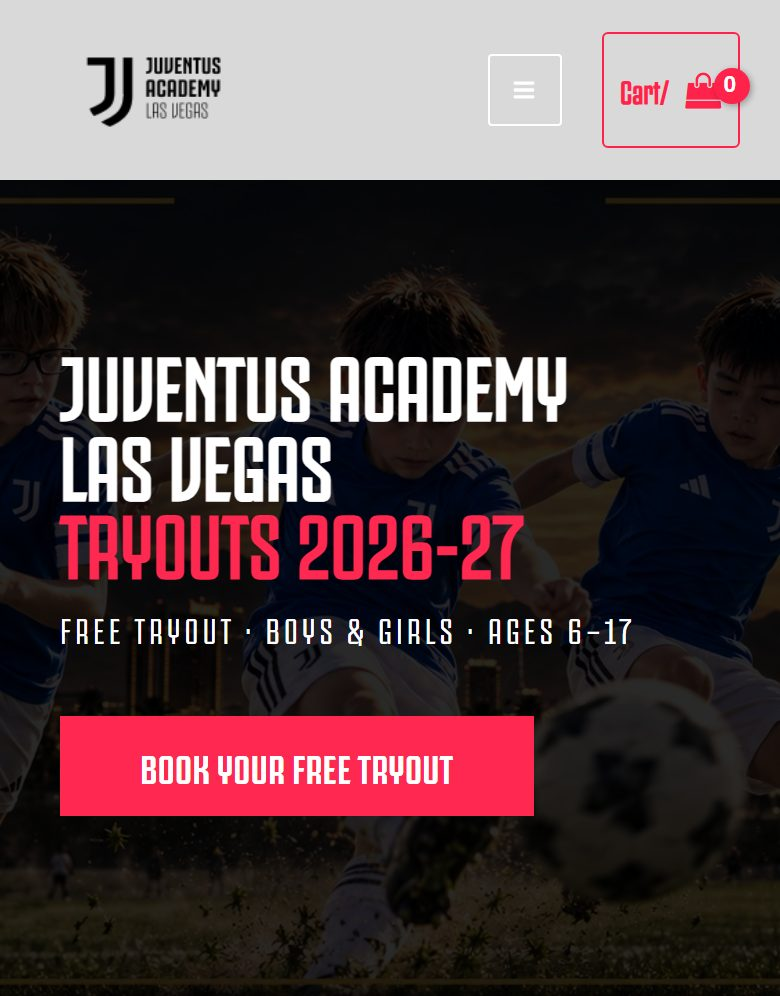
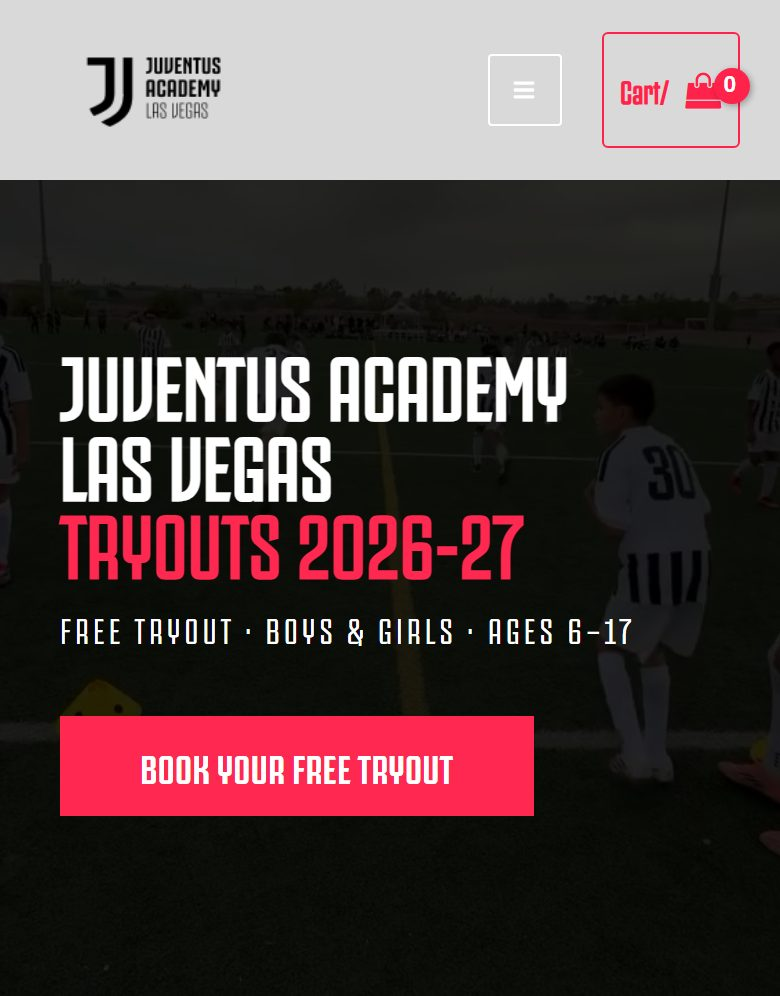
Portada: video real en cámara lenta como propuesta elegida

diff --git a/index.html b/index.html
@@ -71,7 +71,7 @@ td .tag{display:inline-block;margin-top:6px;font-size:12px;font-weight:600;paddi
 .foto{background:var(--panel);border:1px solid var(--line);border-radius:14px;padding:18px;display:grid;gap:14px}
 .foto .par{display:grid;grid-template-columns:1fr 1fr;gap:14px}
 .foto .par > div{min-width:0}
-.foto .par img{width:100%;aspect-ratio:16/10;object-fit:cover;border-radius:8px;display:block}
+.foto .par img,.foto .par video{width:100%;aspect-ratio:16/10;object-fit:cover;border-radius:8px;display:block;background:#000}
 .foto .lbl{font:700 13px/1 "Barlow Condensed",sans-serif;letter-spacing:2px;text-transform:uppercase;color:var(--muted);margin-bottom:6px}
 .foto .lbl.d{color:var(--accent)}
 .foto ul{margin:0;padding-left:18px;color:var(--ink2)}
@@ -104,7 +104,7 @@ footer{margin-top:56px;color:var(--muted);font-size:14px;border-top:1px solid va
   <div class="aviso">
     <span class="chip">Simulación · la web no se ha modificado</span>
     <span class="chip ok">Ya hecho el 10-10: los 4 botones van al tryout 2026-27 y se quitó la sede Walter</span>
-    <span class="chip warn">Pendiente por aprobar: textos y fotos</span>
+    <span class="chip warn">Pendiente por aprobar: textos, video de portada y fotos</span>
   </div>
   <div class="demo-cta">
     <a class="demo-btn" href="demo/" target="_blank" rel="noopener"><svg viewBox="0 0 24 24" fill="none" stroke="currentColor" stroke-width="2.4" aria-hidden="true"><path d="M14 4h6v6M20 4l-8 8M18 14v5a1 1 0 0 1-1 1H5a1 1 0 0 1-1-1V7a1 1 0 0 1 1-1h5"/></svg>Ver la propuesta en pantalla completa</a>
@@ -131,7 +131,7 @@ footer{margin-top:56px;color:var(--muted);font-size:14px;border-top:1px solid va
     <figure><figcaption>Antes (hoy)</figcaption><img id="imgA" src="img/movil_antes_hero.jpg" alt="Versión actual de la landing"></figure>
     <figure class="d"><figcaption>Después (propuesta) <a class="demo-btn chico" href="demo/" target="_blank" rel="noopener"><svg viewBox="0 0 24 24" fill="none" stroke="currentColor" stroke-width="2.4" aria-hidden="true"><path d="M14 4h6v6M20 4l-8 8M18 14v5a1 1 0 0 1-1 1H5a1 1 0 0 1-1-1V7a1 1 0 0 1 1-1h5"/></svg>Pantalla completa</a></figcaption><a class="abrir" href="demo/" target="_blank" rel="noopener" title="Ver la propuesta en pantalla completa"><img id="imgD" src="img/movil_despues_hero.jpg" alt="Versión propuesta de la landing"></a></figure>
   </div>
-  <p class="nota-sec" id="nota">Portada: título en una sola línea, edades y "gratis" a la vista antes del botón, y foto de Las Vegas en vez del archivo de Miami.</p>
+  <p class="nota-sec" id="nota">Portada: título en una sola línea, edades y "gratis" a la vista antes del botón, y de fondo un video real de la academia en cámara lenta (aquí se ve un cuadro; en la demo se ve en movimiento).</p>
 </section>
 
 <section id="textos">
@@ -158,15 +158,18 @@ footer{margin-top:56px;color:var(--muted);font-size:14px;border-top:1px solid va
   <h2>Fotos que se proponen cambiar</h2>
   <div class="fotos">
     <article class="foto">
-      <h3>1 · Fondo de la portada</h3>
+      <h3>1 · Fondo de la portada: video real en cámara lenta</h3>
       <div class="par">
         <div><div class="lbl">Hoy</div><img src="img/actual_hero_miami.jpg" alt="Fondo actual: jugador en una cancha de Miami"></div>
-        <div><div class="lbl d">Propuesta</div><img src="img/hero_accion_lv.jpg" alt="Tres jugadores en acción con el uniforme oficial y el skyline de Las Vegas"></div>
+        <div><div class="lbl d">Propuesta</div><video class="vprop" src="img/heroC_pc.mp4" poster="img/heroC_pc_poster.jpg" muted autoplay loop playsinline aria-label="Video real: el equipo con el uniforme de Juventus entrenando, y la bandera de Juventus en la cancha"></video></div>
       </div>
       <ul>
         <li>La foto actual es del archivo de Miami (el nombre del archivo lo dice: <i>bg-tryouts-miami</i>) y es lo primero que ve el padre que llega del anuncio.</li>
-        <li>La propuesta es la misma imagen del anuncio "Ask these five questions": jugadores en acción, uniforme oficial y el skyline de Las Vegas. El padre ve en la web lo mismo que vio en Instagram.</li>
-        <li>Está hecha con IA, como los anuncios. Para la web final se produce en dos formatos (ancho para computador y vertical para celular). En computador, la simulación usa una versión provisional.</li>
+        <li>La propuesta es un video real del reel de pretemporada de @jacademylasvegas (16-09-2026): el equipo con el uniforme de Juventus entrenando y la bandera de Juventus en la cancha. Va en cámara lenta, sin sonido y en bucle de 7 segundos, detrás del título.</li>
+        <li>No hace la página más lenta: primero carga una imagen fija y el video entra después (1,6 MB en computador y 0,9 MB en celular). Si no carga, queda la imagen.</li>
+        <li>Pendiente por confirmar con el equipo de Las Vegas: que la cancha sea de Las Vegas y que ese uniforme blanco siga vigente.</li>
+        <li>El video original es vertical, de celular: en celular se ve bien y en computador queda recortado y algo suave. Más adelante se puede reemplazar por una toma horizontal del videógrafo nuevo.</li>
+        <li>Se probaron otras dos opciones (los niños del anuncio animados con IA y la foto actual animada); se pueden ver en la demo con el selector de portada.</li>
       </ul>
     </article>
     <article class="foto">
@@ -197,7 +200,7 @@ footer{margin-top:56px;color:var(--muted);font-size:14px;border-top:1px solid va
     <div><b>Textos.</b> Aprobar la tabla de arriba tal cual o con ajustes.</div>
     <div><b>Plazo del paso 2.</b> Debe ser uno que el staff pueda cumplir siempre.
       <div class="opciones"><span>within 48 hours</span><span>within 2 business days</span><span>within a few days</span></div></div>
-    <div><b>Fotos.</b> Aprobar la portada con la imagen del anuncio y definir la foto de la sede (cuadro del video o foto nueva de Garside).</div>
+    <div><b>Portada y fotos.</b> Aprobar el video real de fondo (confirmar cancha y uniforme) y la foto de la sede.</div>
   </div>
   <p class="nota-sec">Con la aprobación, los cambios se aplican en Elementor en unos 15 minutos. Ya hay un respaldo completo de la página (10-10) para volver atrás si hace falta.</p>
 </section>
@@ -209,7 +212,7 @@ footer{margin-top:56px;color:var(--muted);font-size:14px;border-top:1px solid va
 (function () {
   var tam = 'movil', blq = 'hero';
   var notas = {
-    hero: 'Portada: título en una sola línea, edades y "gratis" a la vista antes del botón, y foto de Las Vegas en vez del archivo de Miami.',
+    hero: 'Portada: título en una sola línea, edades y "gratis" a la vista antes del botón, y de fondo un video real de la academia en cámara lenta (aquí se ve un cuadro; en la demo se ve en movimiento).',
     bienvenida: 'Bienvenida: mismos textos y fotos; cambian los botones y el titular "Boys and girls" ahora dice el rango de edades.',
     pasos: 'Cómo inscribirse: los tres pasos dicen cuánto tarda, quién llama y cuándo se sabe el resultado.',
     sede: 'Sede: foto real de una cancha de Las Vegas en vez de la foto con palmeras.',

diff --git a/demo/index.html b/demo/index.html
@@ -1055,10 +1055,10 @@ Garside junior high school					</p>
 			
 				
 
-<div class="widget_shopping_cart_live_region screen-reader-text" role="status"></div><div class="demo-aviso">DEMO de la propuesta · todavía no está publicada · <a href="../">volver al antes y después</a><span class="demo-op">Portada: <button data-v="1">1 · Niños IA</button><button data-v="2">2 · Foto actual animada</button><button data-v="3">3 · Video real</button><button data-v="0">Sin video</button></span></div><script>(function(){var v=document.querySelector('.demo-video');var m=matchMedia('(max-width:1024px)').matches;
+<div class="widget_shopping_cart_live_region screen-reader-text" role="status"></div><div class="demo-aviso">DEMO de la propuesta · todavía no está publicada · <a href="../">volver al antes y después</a><span class="demo-op">Portada: <button data-v="3">Video real (elegida)</button><button data-v="1">Niños IA</button><button data-v="2">Foto actual animada</button><button data-v="0">Sin video</button></span></div><script>(function(){var v=document.querySelector('.demo-video');var m=matchMedia('(max-width:1024px)').matches;
 var F={1:['hero_video_'+(m?'movil':'pc'),'center 8%'],2:['heroB_'+(m?'movil':'pc'),'center 15%'],3:['heroC_'+(m?'movil':'pc'),'center 30%']};
 function poner(k){document.querySelectorAll('.demo-op button').forEach(function(b){b.setAttribute('aria-pressed',b.dataset.v==k)});
 if(!F[k]){v.pause();v.removeAttribute('src');v.removeAttribute('poster');v.load();v.style.display='none';return;}
 v.style.display='';v.style.objectPosition=F[k][1];v.poster='../img/'+F[k][0]+'_poster.jpg';v.src='../img/'+F[k][0]+'.mp4';var p=v.play();if(p&&p.catch)p.catch(function(){});}
 document.querySelectorAll('.demo-op button').forEach(function(b){b.addEventListener('click',function(){poner(b.dataset.v);try{history.replaceState(null,'','#'+b.dataset.v)}catch(e){}})});
-poner((location.hash||'#1').slice(1));})();</script></body></html>
+poner((location.hash||'#3').slice(1));})();</script></body></html>
